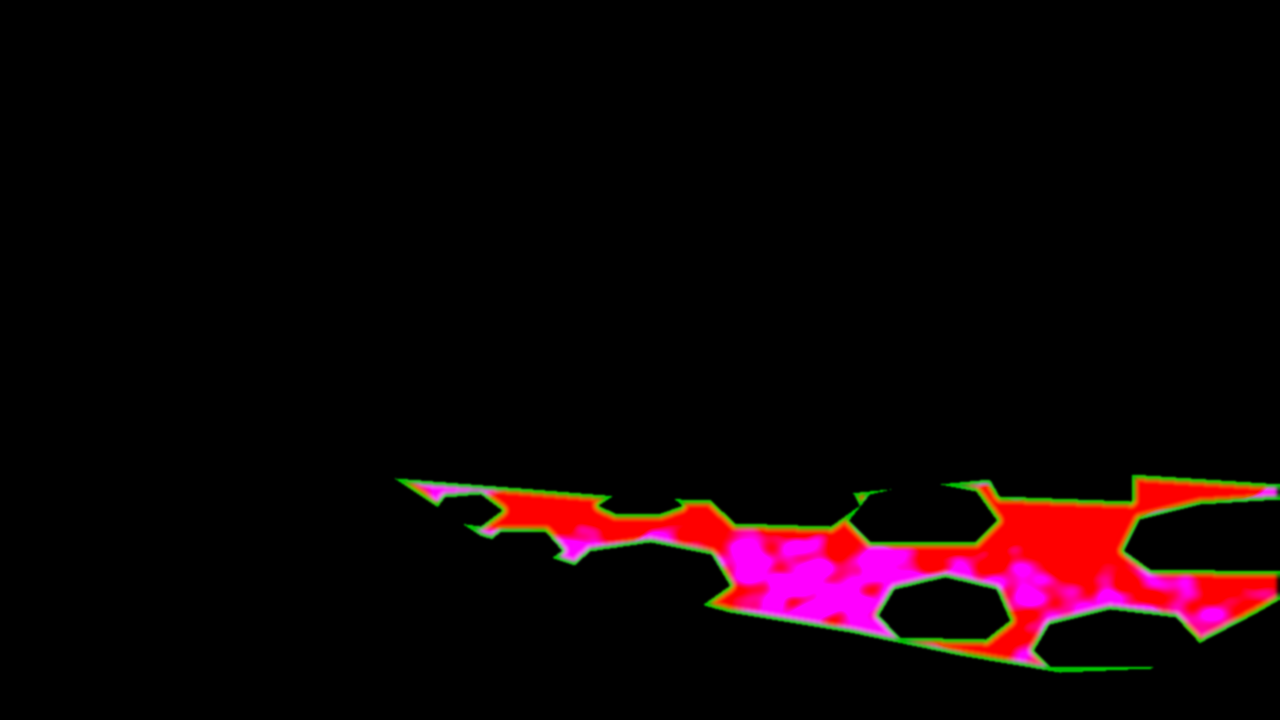
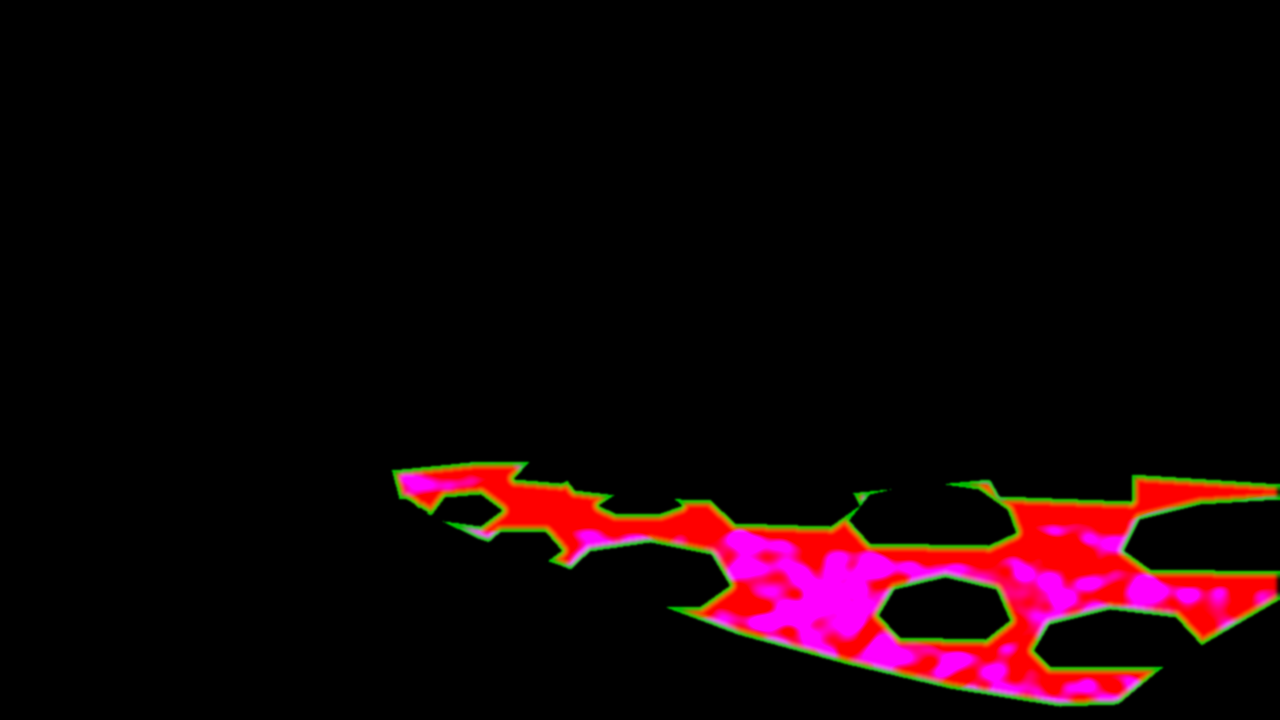
Elderbrook mill: river bed repainted to the bank and under the arch, caustics on the arch underside, smoother fall base

Changed region(s): [[0.2812, 0.6417, 1.0, 1.0], [0.9688, 0.6722, 1.0, 0.7028]]

diff --git a/eb/eb.js b/eb/eb.js
@@ -75,13 +75,13 @@ lightTex.colorSpace = THREE.NoColorSpace; lightTex.generateMipmaps = false; ligh
 plateTex.colorSpace = THREE.SRGBColorSpace; plateTex.minFilter = THREE.LinearFilter; plateTex.generateMipmaps = false;
 depthPng.colorSpace = THREE.NoColorSpace; depthPng.minFilter = depthPng.magFilter = THREE.NearestFilter; depthPng.generateMipmaps = false;
 const river = S.flow ? await fetch(`${base}_river.json`).then(r => r.json()) : null;
-const riverTex = river ? await Promise.all([`${base}_flow.png`, "./plates/water_a.png", "./plates/water_b.png"].map(u => texLoader.loadAsync(u))) : [null, null, null];
-riverTex.forEach((t, i) => { if (!t) return; t.colorSpace = THREE.NoColorSpace; if (i) { t.wrapS = t.wrapT = THREE.RepeatWrapping; } else { t.generateMipmaps = false; t.minFilter = THREE.LinearFilter; } });
+const riverTex = river ? await Promise.all([`${base}_flow.png`, "./plates/water_a.png", "./plates/water_b.png", `${base}_caus.png`].map(u => texLoader.loadAsync(u))) : [null, null, null, null];
+riverTex.forEach((t, i) => { if (!t) return; t.colorSpace = THREE.NoColorSpace; if (i === 1 || i === 2) { t.wrapS = t.wrapT = THREE.RepeatWrapping; } else { t.generateMipmaps = false; t.minFilter = THREE.LinearFilter; } });
 const bgScene = new THREE.Scene(), bgCam = new THREE.OrthographicCamera(-1, 1, 1, -1, 0, 1);
 const bgMat = new THREE.ShaderMaterial({
-  uniforms: { plate: { value: plateTex }, flowMap: { value: riverTex[0] }, waterA: { value: riverTex[1] }, waterB: { value: riverTex[2] }, wPlane: { value: new THREE.Vector4(...(river ? river.plane : [0, 1, 0, 0])) }, flowSpeed: { value: river ? river.speed * +(params.get("flow") || 1) : 0 }, wdbg: { value: +(params.get("wdbg") || 0) }, camM: { value: camera.matrixWorld }, camK: { value: new THREE.Vector4(K.width / K.fx, K.height / K.fy, K.cx / K.width, 1 - K.cy / K.height) }, flowOn: { value: S.flow ? 1 : 0 }, flowS: { value: new THREE.Vector4(...(S.flow ? S.flow.stream : [0, 0, 0, 0])) }, flowF: { value: new THREE.Vector4(...(S.flow ? S.flow.fall : [0, 0, 0, 0])) }, fx: { value: fxTex }, light: { value: lightTex }, sky: { value: skyTex }, t: { value: 0 }, depth: { value: depthPng }, near: { value: NEAR }, far: { value: FAR } },
+  uniforms: { plate: { value: plateTex }, flowMap: { value: riverTex[0] }, waterA: { value: riverTex[1] }, waterB: { value: riverTex[2] }, causMask: { value: riverTex[3] }, wPlane: { value: new THREE.Vector4(...(river ? river.plane : [0, 1, 0, 0])) }, flowSpeed: { value: river ? river.speed * +(params.get("flow") || 1) : 0 }, wdbg: { value: +(params.get("wdbg") || 0) }, camM: { value: camera.matrixWorld }, camK: { value: new THREE.Vector4(K.width / K.fx, K.height / K.fy, K.cx / K.width, 1 - K.cy / K.height) }, flowOn: { value: S.flow ? 1 : 0 }, flowS: { value: new THREE.Vector4(...(S.flow ? S.flow.stream : [0, 0, 0, 0])) }, flowF: { value: new THREE.Vector4(...(S.flow ? S.flow.fall : [0, 0, 0, 0])) }, fx: { value: fxTex }, light: { value: lightTex }, sky: { value: skyTex }, t: { value: 0 }, depth: { value: depthPng }, near: { value: NEAR }, far: { value: FAR } },
   vertexShader: "varying vec2 vUv; void main(){ vUv = uv; gl_Position = vec4(position.xy, 0.0, 1.0); }",
-  fragmentShader: `uniform sampler2D plate, depth, fx, light, sky; uniform float near, far, t, flowOn, flowSpeed, wdbg; uniform vec4 flowS, flowF, camK, wPlane; uniform mat4 camM; uniform sampler2D flowMap, waterA, waterB; varying vec2 vUv;
+  fragmentShader: `uniform sampler2D plate, depth, fx, light, sky; uniform float near, far, t, flowOn, flowSpeed, wdbg; uniform vec4 flowS, flowF, camK, wPlane; uniform mat4 camM; uniform sampler2D flowMap, waterA, waterB, causMask; varying vec2 vUv;
     float hash(vec2 p){ return fract(sin(dot(p, vec2(127.1, 311.7))) * 43758.5453); }
     float vnoise(vec2 p){ vec2 i = floor(p), f = fract(p); f = f * f * (3.0 - 2.0 * f);
       return mix(mix(hash(i), hash(i + vec2(1.0, 0.0)), f.x), mix(hash(i + vec2(0.0, 1.0)), hash(i + vec2(1.0, 1.0)), f.x), f.y); }
@@ -132,6 +132,11 @@ const bgMat = new THREE.ShaderMaterial({
         col.rgb = min(col.rgb, 1.0);
         if (wdbg > 0.5) col.rgb = wdbg < 1.5 ? mw : wdbg < 2.5 ? vec3(fm.rg, fm.b) : wdbg < 3.5 ? vec3(ca) : vec3(foam, gl, 0.0);   // ?wdbg=1 mask, 2 flow, 3 caustics, 4 foam+glints
       }
+      if (flowOn > 0.5) { float cm = texture2D(causMask, vUv).r;
+        if (cm > 0.01) {   // light thrown up off the moving water plays across the underside of the arch: two caustic nets sliding through each other
+          vec2 q = vUv * vec2(1280.0, 720.0) / 150.0;
+          float c1 = texture2D(waterA, q * vec2(1.0, 1.5) + vec2(t * 0.035, t * 0.022)).r, c2 = texture2D(waterA, q * vec2(1.3, 1.9) + vec2(0.4 - t * 0.028, 0.7 + t * 0.03)).r;
+          col.rgb += vec3(0.95, 1.0, 0.78) * min(c1, c2 * 1.5) * 0.42 * cm * (0.7 + 0.3 * sin(t * 0.7)); } }
       // sky: clouds drifting slowly behind the rooftops
       float skyM = texture2D(light, vUv).g;
       if (skyM > 0.003) { vec3 sk = texture2D(sky, vec2(vUv.x * 1.2 + t * 0.0022, 0.42 + (vUv.y - 0.9) * 1.0)).rgb;
@@ -649,7 +654,7 @@ if (S.flow) { fallMat = new THREE.ShaderMaterial({ transparent: true, depthTest:
         c *= mix(1.06, 0.80, clamp(ac * 0.5 + 0.5, 0.0, 1.0));                                   // the side away from the sun is darker
         // where it lands: boiling white water and a drift of mist
         vec2 sd = (vUv - vec2(F.z, F.w)) * vec2(1280.0, 720.0);
-        float boil = exp(-dot(sd / vec2(62.0, 15.0), sd / vec2(62.0, 15.0))) * smoothstep(0.30, 0.55, vnoise(vec2(sd.x * 0.09 + t * 0.6, sd.y * 0.2 - t * 2.2)));
+        float boil = exp(-dot(sd / vec2(66.0, 13.0), sd / vec2(66.0, 13.0))) * (0.45 + 0.55 * vnoise(vec2(sd.x * 0.035 + t * 0.5, sd.y * 0.08 - t * 1.6))) * 0.85;
         float mist = exp(-dot(sd / vec2(105.0, 52.0), sd / vec2(105.0, 52.0))) * (0.35 + 0.65 * vnoise(vec2(sd.x * 0.022 + t * 0.25, sd.y * 0.03 - t * 0.9))) * 0.42;
         // droplets thrown off the sheet
         vec2 dg = vec2(ac * 5.0, ph * 5.0); vec2 dc = floor(dg); float dr = hash(dc);

diff --git a/eb/index.html b/eb/index.html
@@ -47,6 +47,6 @@
 <div id="dialog"><div class="n"></div><div class="x"></div></div>
 <div id="fade"></div>
 <div id="title"><h1>Elderbrook</h1><p>WASD / arrows to walk &nbsp;·&nbsp; Shift to run &nbsp;·&nbsp; E to inspect</p><div class="go" id="go">Loading…</div></div>
-<script type="module" src="./eb.js?v=22"></script>
+<script type="module" src="./eb.js?v=23"></script>
 </body>
 </html>
